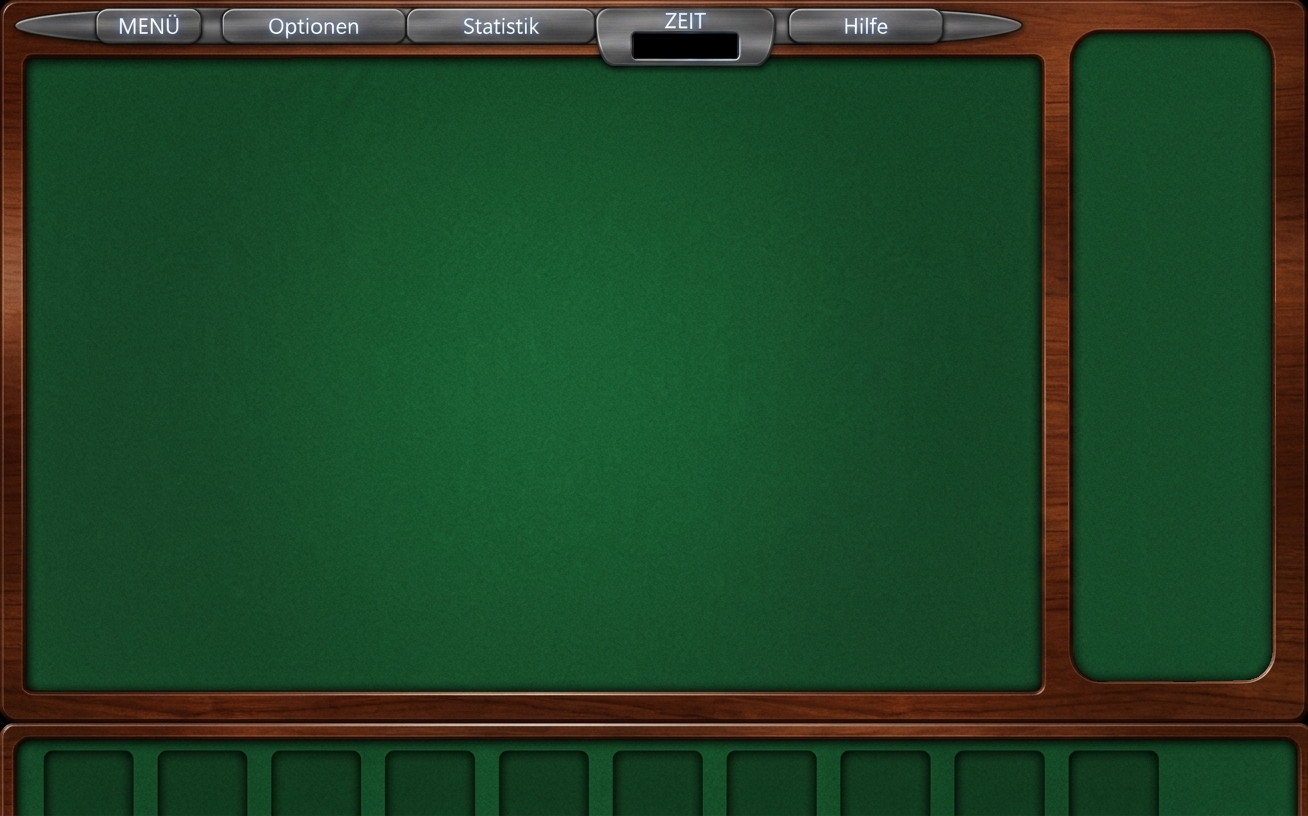
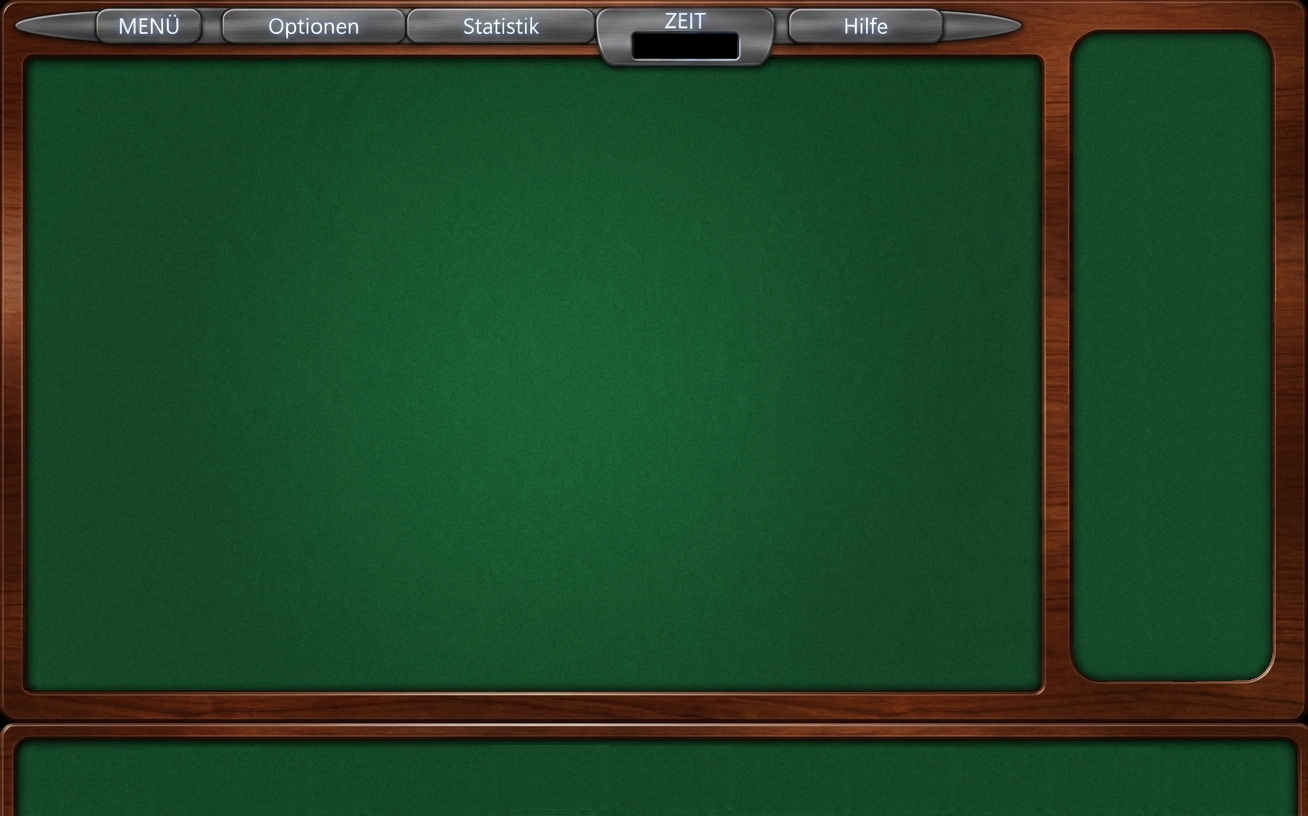
Refactor card positioning logic and update constants for improved layout

Changed region(s): [[0.0306, 0.9191, 0.8869, 1.0]]

diff --git a/src/row_taker/gui/main.py b/src/row_taker/gui/main.py
@@ -9,7 +9,9 @@ from row_taker.gui.constants import (
     BOARD_PLAY_AREA_Y_RATIO,
     CARD_ASPECT_RATIO,
     CARD_GAP,
+    HANDCARD_GAP,
     HANDCARD_SCALE,
+    OFFSET_HANDCARD_x,
     CARD_SCALE,
     FPS,
     WINDOW_TITLE,
@@ -31,7 +33,7 @@ def create_demo_cards(
     play_area_height = int(window_height * BOARD_PLAY_AREA_HEIGHT_RATIO)
 
     # Hand area below play area
-    hand_y = play_area_y + play_area_height + CARD_GAP
+    hand_y = play_area_y + play_area_height 
 
     deck = [Card(value) for value in range(1, board_rows * board_columns + hand_columns + 1)]
 
@@ -81,13 +83,13 @@ def create_demo_cards(
         else int(handcard_width * CARD_ASPECT_RATIO)
     )
     
-    hand_y_start = hand_y + CARD_GAP
+    
     for index, card in enumerate(hand_cards):
         if card.image is None:
             continue
 
-        card.x = play_area_x + CARD_GAP + index * (handcard_width + CARD_GAP)
-        card.y = hand_y_start
+        card.x = play_area_x + OFFSET_HANDCARD_x + index * (handcard_width + HANDCARD_GAP)
+        card.y = hand_y
 
     return board_cards, hand_cards, play_area_x, play_area_y, card_width, card_height, board_columns
 

diff --git a/src/row_taker/gui/constants.py b/src/row_taker/gui/constants.py
@@ -1,3 +1,6 @@
+from tkinter import OFF
+
+
 WINDOW_TITLE = "Row Taker"
 
 WINDOW_WIDTH = 1000
@@ -9,13 +12,16 @@ FPS = 60
 
 CARD_SCALE = 0.1
 HANDCARD_SCALE = CARD_SCALE / 1.4
+
 CARD_ASPECT_RATIO = 1.5
+
 CARD_GAP = 5
+HANDCARD_GAP: float = CARD_GAP * 3.5
+
+OFFSET_HANDCARD_x = 23
 
 # Board play area ratios (relative to board image size)
 BOARD_PLAY_AREA_X_RATIO = 0.015  # 2% from left
 BOARD_PLAY_AREA_Y_RATIO = 0.07  # 5% from top
 BOARD_PLAY_AREA_WIDTH_RATIO = 0.8  # 80% of width
 BOARD_PLAY_AREA_HEIGHT_RATIO = 0.85  # 90% of height
-
-DEMO_CARD_VALUES = [1, 2, 3, 4, 5]
